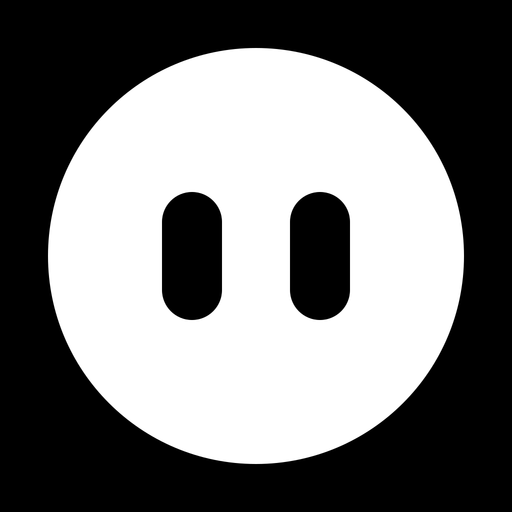
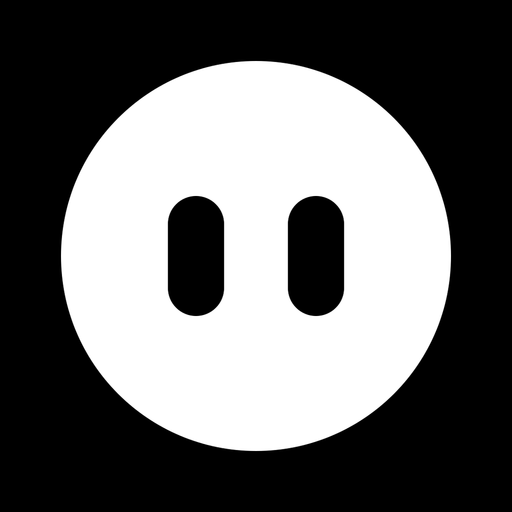
Keep the web app face inside the launcher mask

diff --git a/packages/ui-tokens/scripts/export-brand.ts b/packages/ui-tokens/scripts/export-brand.ts
@@ -52,14 +52,14 @@ async function ico(input: Buffer, name: string, sizes: number[]) {
   await writeFile(path(name), Buffer.concat([header, ...frames]));
 }
 
-async function webIcons(app: string, rounded: Buffer, square: Buffer) {
+async function webIcons(app: string, rounded: Buffer, square: Buffer, installIcon = square) {
   const publicDir = `apps/${app}/public`;
   await png(rounded, `${publicDir}/favicon-16x16.png`, 16);
   await png(rounded, `${publicDir}/favicon-32x32.png`, 32);
   await png(rounded, `${publicDir}/favicon.png`, 128);
   await png(square, `${publicDir}/apple-touch-icon.png`, 180);
-  await png(square, `${publicDir}/icon-192.png`, 192);
-  await png(square, `${publicDir}/icon-512.png`, 512);
+  await png(installIcon, `${publicDir}/icon-192.png`, 192);
+  await png(installIcon, `${publicDir}/icon-512.png`, 512);
   await ico(rounded, `${publicDir}/favicon.ico`, [16, 32, 48]);
 }
 await webIcons("www", marketingMark, marketingSquare);
@@ -74,7 +74,11 @@ const logo = path("superbot-site/assets/logo.svg");
 const mark = await sharp(logo, { density: 288 }).resize(1024, 1024).png().toBuffer();
 const opaque = await sharp(mark).flatten({ background: "black" }).png().toBuffer();
 await copyFile(logo, path("apps/web/public/superbot-mark.svg"));
-await webIcons("web", mark, opaque);
+const maskable = await sharp(await padded(mark, 960))
+  .flatten({ background: "black" })
+  .png()
+  .toBuffer();
+await webIcons("web", mark, opaque, maskable);
 await png(mark, "apps/desktop/assets/icon.png", 1024);
 await ico(mark, "native/desktop/assets/superbot.ico", [16, 20, 24, 32, 40, 48, 64, 128, 256]);
 await copyFile(path("native/desktop/assets/superbot.ico"), path("apps/desktop/assets/icon.ico"));
